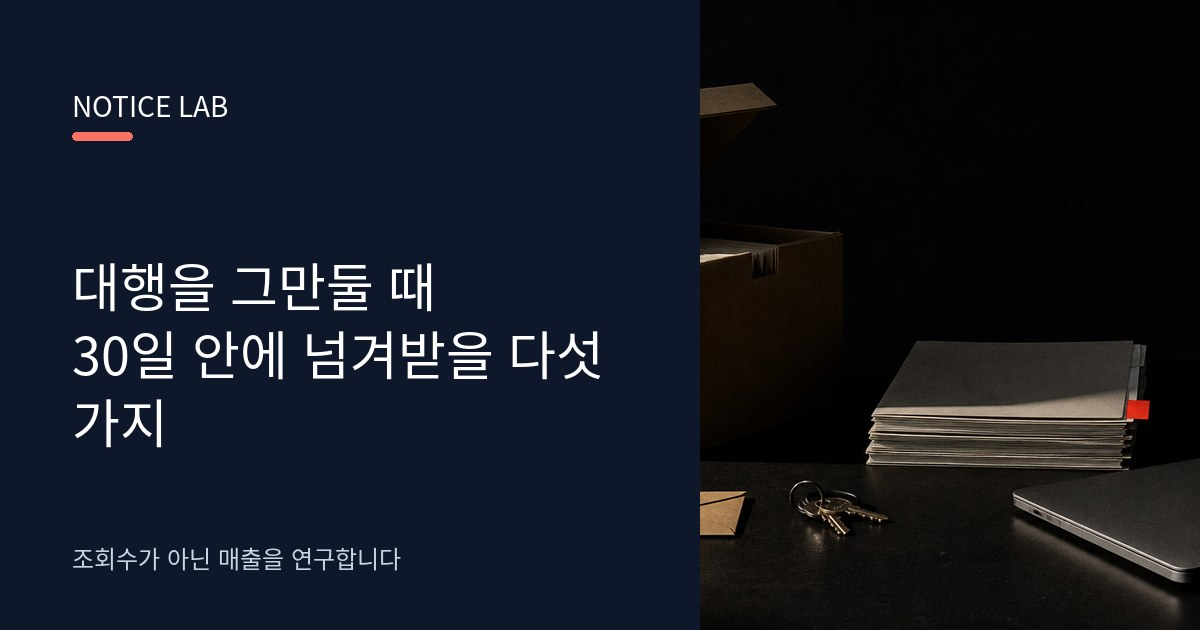
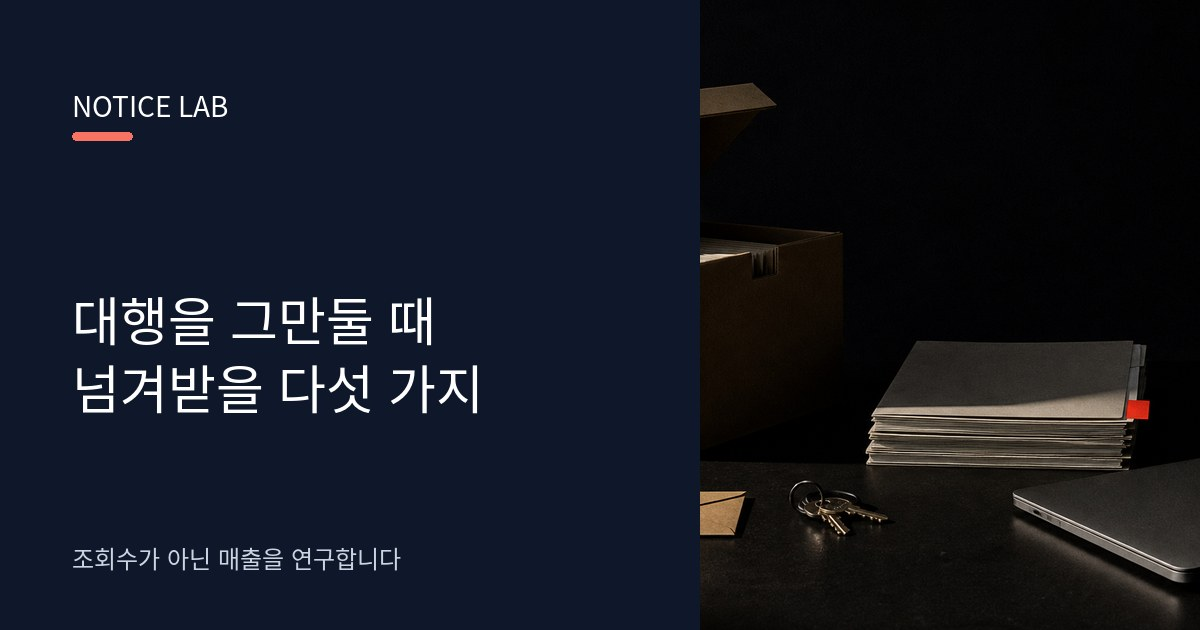
다듬기: 인수인계 글 OG 카드 문구 줄바꿈 정리

Changed region(s): [[0.0617, 0.4222, 0.5242, 0.6937]]

diff --git a/scripts/prepare_day4_images.py b/scripts/prepare_day4_images.py
@@ -19,7 +19,7 @@ from prepare_images import IMG, make_og, make_webp  # noqa: E402
 DERIVATIVES = {
     "google-profile-thumbnail.png": (1600, ("구글 지도에서 비어 보이는 이유", "무료 프로필 다섯 칸")),
     "menu-price-thumbnail.png": (1600, ("외식 2.9%, 채소 -11.2%", "연말 메뉴판 고치기")),
-    "agency-handover-thumbnail.png": (1600, ("대행을 그만둘 때", "30일 안에 넘겨받을 다섯 가지")),
+    "agency-handover-thumbnail.png": (1600, ("대행을 그만둘 때", "넘겨받을 다섯 가지")),
     "google-profile-checklist.png": (1400, None),
     "menu-cost-split.png": (1400, None),
     "agency-handover-handoff.png": (1400, None),
